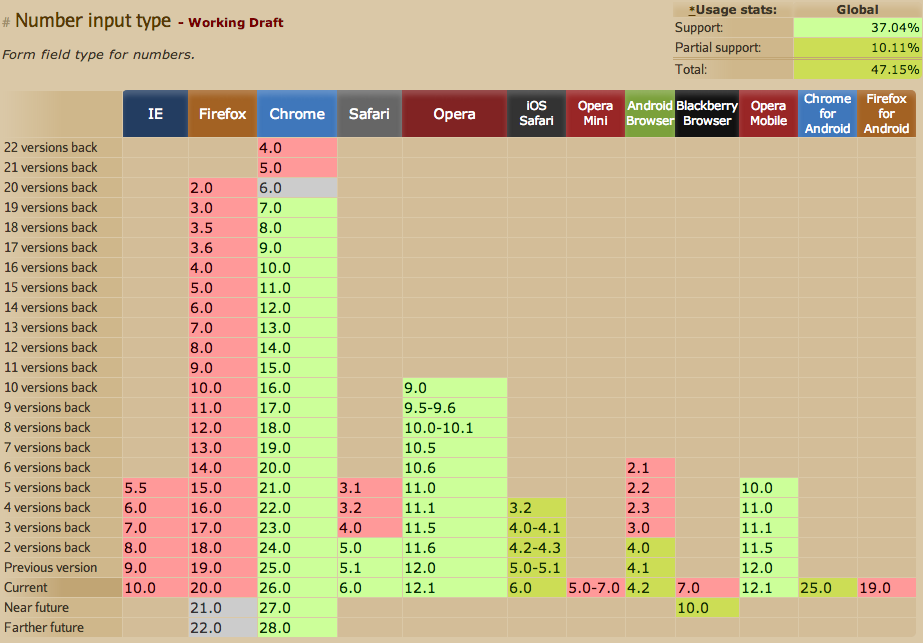
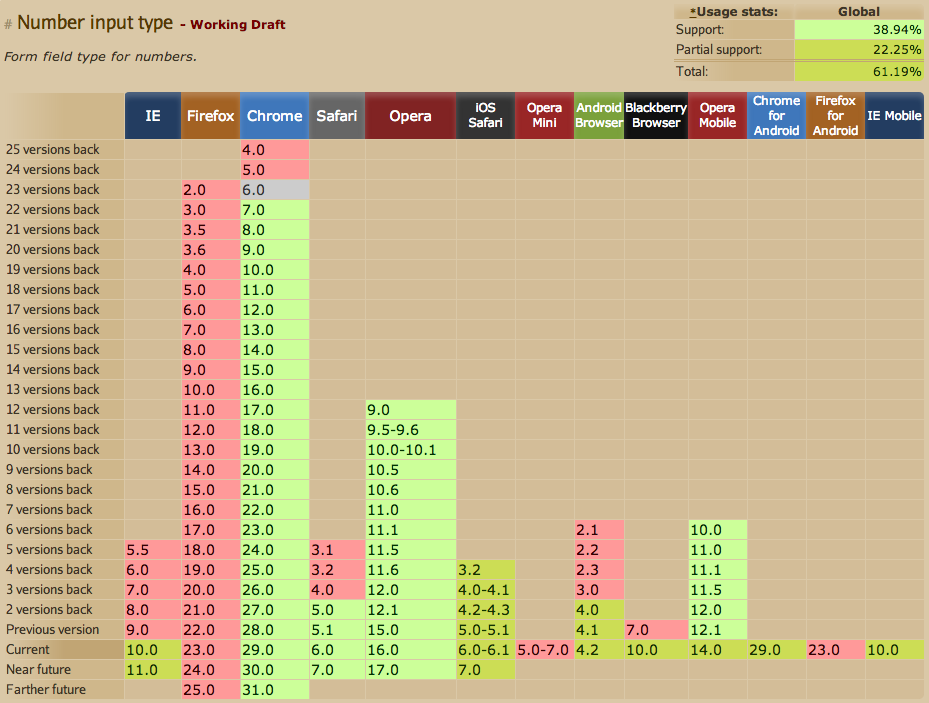
Updated graphics and information.

diff --git a/index.html b/index.html
@@ -506,6 +506,17 @@
 					<div class="output"></div>
 				</section>
 
+				<section style="padding-top: 0;">
+					<h2 style="font-size: 1.5em;">Inline Datepickers</h2>
+<pre class="language-markup" style="font-size: 0.7em;">
+<code contenteditable>&lt;div id="ui-inline"&gt;&lt;/div&gt;
+&lt;script&gt;
+    $( "#ui-inline" ).datepicker();
+&lt;/script&gt;
+</code></pre>
+					<div class="output"></div>
+				</section>
+
 				<section>
 					<h2 class="no_casing">And a LOT more</h2>
 					<a href="http://api.jqueryui.com/datepicker" style="display: block;">api.jqueryui.com/datepicker</a>
@@ -762,7 +773,13 @@
 				</section>
 
 				<section>
-					<h2>Opera Mobile</h2>
+					<h2>IE10 Mobile</h2>
+					<pre class="language-markup inline"><code>&lt;input type="number"&gt;</code></pre>
+					<img style="max-height: 400px;" src="img/ie10_number.png">
+				</section>
+
+				<section>
+					<h2>Opera Mobile (pre-Chromium)</h2>
 					<pre class="language-markup inline"><code>&lt;input type="number" min="2" max="8" step="2"&gt;</code></pre>
 					<img style="max-height: 400px;" src="img/opera_number.png">
 				</section>

diff --git a/less/style.less b/less/style.less
@@ -276,6 +276,19 @@ section .output {
 	}
 }
 
+#ui-inline {
+	font-size: 25px;
+	.ui-datepicker-calendar a {
+		color: #555;
+		padding: 0;
+		text-align: center;
+	}
+	th, td {
+		text-align: center;
+		padding: 0.1em;
+	}
+}
+
 .theme_slide {
 	position: relative;
 
